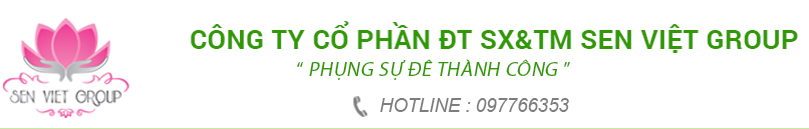
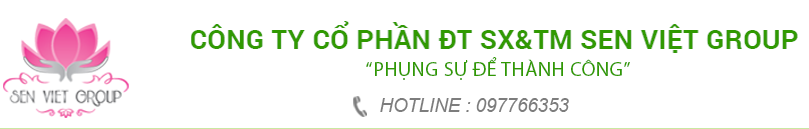
Fix bug

Changed region(s): [[0.3708, 0.4651, 0.8035, 0.5891]]

diff --git a/application/views/backend/configs/home.php b/application/views/backend/configs/home.php
@@ -71,6 +71,11 @@
                     <textarea name="maintain_message" class="form-control" id="editor1"><?php echo (isset($post_data['maintain_message']) ? $post_data['maintain_message'] : '')?></textarea>
                 </div>
             </div>
+            
+            <div class="col-md-12 item">
+                <div class="col-md-3" style="line-height: 200%;"><label for="slogan">Slogan</label></div>
+                <div class="col-md-9"><input id="slogan" name="slogan" class="form-control" type="text" title="Slogan" value="<?php echo (isset($post_data['slogan'])? $post_data['slogan'] : '')?>" /></div>
+            </div>
 
             <div class="col-md-12 item">
                 <div class="col-md-3" style="line-height: 200%;"><label for="address">Địa chỉ</label></div>

diff --git a/application/controllers/admin/configs.php b/application/controllers/admin/configs.php
@@ -20,7 +20,7 @@ class Configs extends CI_Controller {
         if($this->input->post()){
             $data['post_data'] = $this->input->post();
             
-            $data['post_data'] = $this->mycommonlib->Filter_Field($data['post_data'], array('homepage', 'is_active', 'perpage', 'maintain_message', 'flash_message', 'meta_title', 'meta_keyword', 'meta_description', 'address', 'email', 'telephone'));
+            $data['post_data'] = $this->mycommonlib->Filter_Field($data['post_data'], array('homepage', 'is_active', 'perpage', 'maintain_message', 'flash_message', 'meta_title', 'meta_keyword', 'meta_description', 'address', 'email', 'telephone', 'slogan'));
             
             $this->db->update('configs', $data['post_data']);
             

diff --git a/application/views/frontend/contacts/home.php b/application/views/frontend/contacts/home.php
@@ -6,7 +6,7 @@
         </ol>
         <div class="col-lg-12">
             <div class="col-lg-12" style="border-bottom: 1px dashed #aeaeae;">
-                <p class="company-heading">CÔNG TY CỔ PHẦN ĐT SX & TM SEN VIỆT GROUP</p>
+                <p class="company-heading"><?php echo $configuration->slogan?></p>
                 <address>
                     <p><i class="fa fa-map-marker" style="color: #f166ab"></i> &nbsp;<?php echo $configuration->address?></p>
                     <p><i class="fa fa-mobile" style="color: #f166ab"></i> &nbsp;&nbsp;<?php echo $configuration->telephone?></p>

diff --git a/application/views/frontend/layout/footer.php b/application/views/frontend/layout/footer.php
@@ -3,7 +3,7 @@
 <footer>
     <div class="container">
         <ul class="footer-links">
-            <li><span class="footer-heading">CÔNG TY CỔ PHẦN ĐT SX &amp; TM SEN VIỆT</span></li>
+            <li><span class="footer-heading"><?php echo $configuration->slogan?></span></li>
             <li><i class="fa fa-home"></i> <?php echo $configuration->address?></li>
             <li><i class="fa fa-mobile"></i> <?php echo $configuration->telephone;?></li>
             <li><i class="fa fa-envelope"></i> <?php echo $configuration->email?></li>
